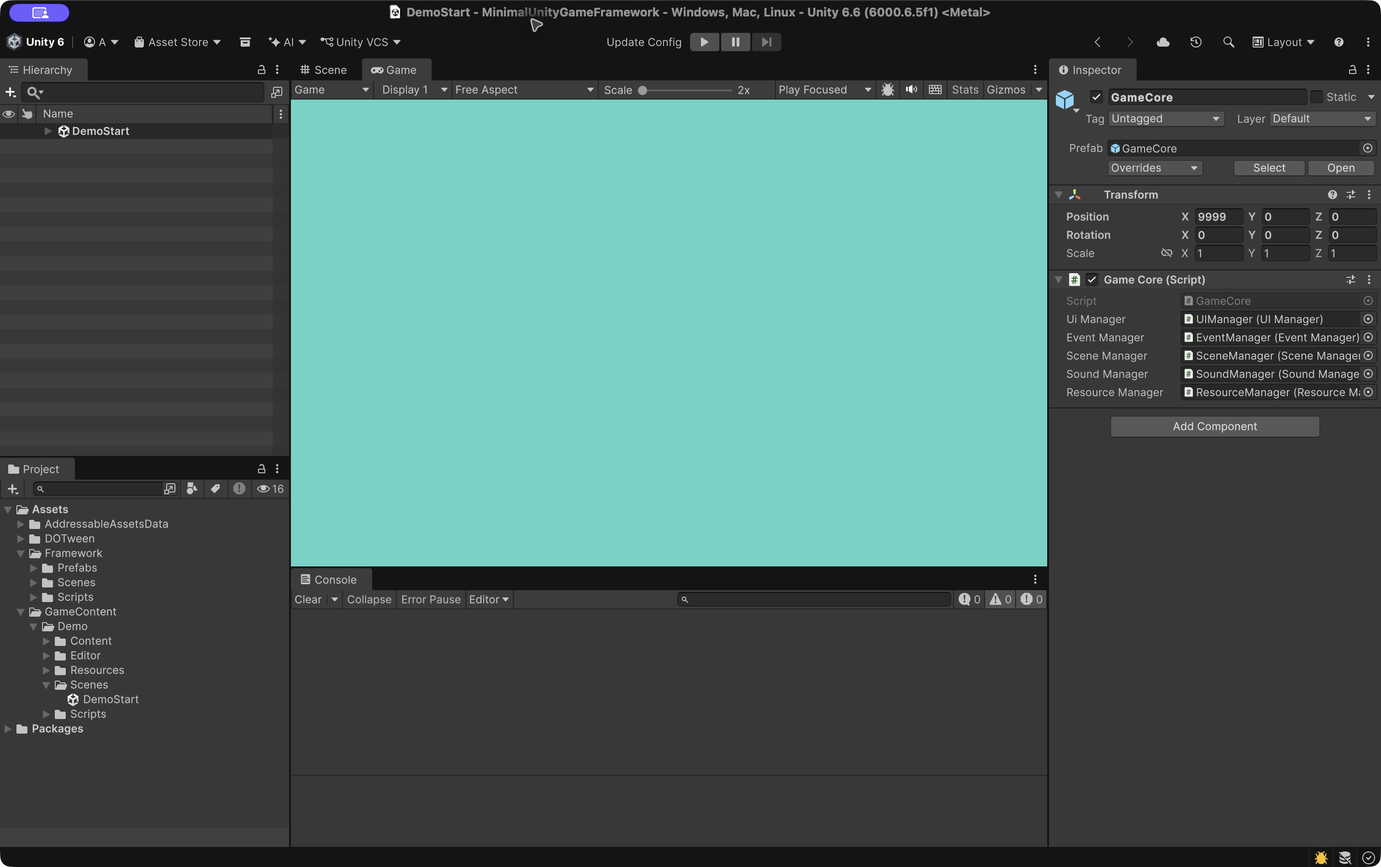
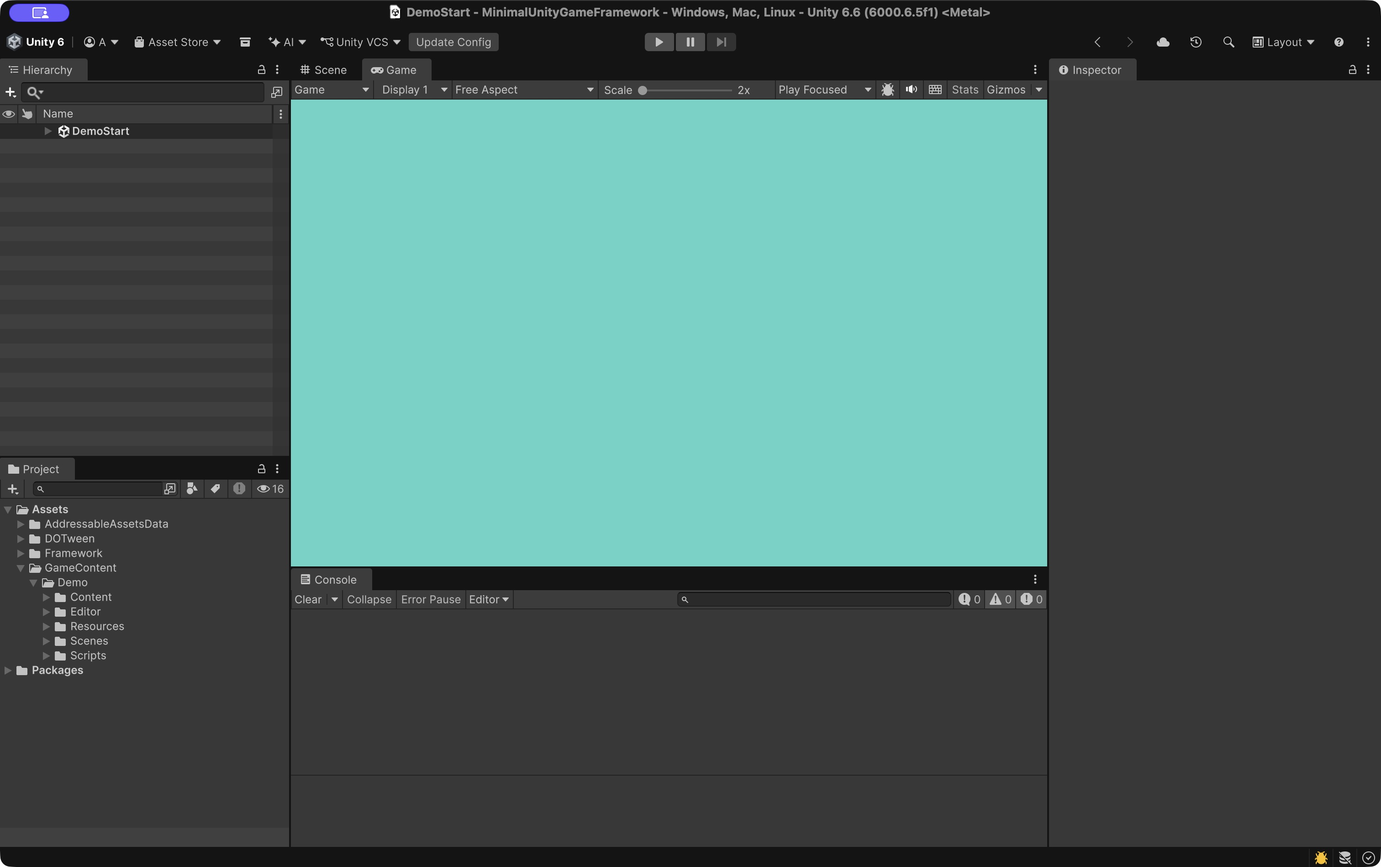
fix: keep config button in the left toolbar

diff --git a/Assets/Framework/Scripts/Config/Editor/ConfigToolbar.cs b/Assets/Framework/Scripts/Config/Editor/ConfigToolbar.cs
@@ -1,16 +1,18 @@
 using UnityEditor;
 using UnityEditor.Toolbars;
 using UnityEngine;
+using UnityEngine.UIElements;
 
 namespace FrameworkConfig.Editor
 {
     [InitializeOnLoad]
     internal static class ConfigToolbar
     {
-        private const string ElementId = "Framework/Update Config";
-        private static readonly string InitializationKey = "FrameworkConfig.ToolbarInitialized."
+        // A new ID lets existing layouts adopt the left dock without resetting other controls.
+        private const string ElementId = "Framework/Update configuration";
+        private static readonly string InitializationKey = "FrameworkConfig.ToolbarLeftInitialized."
             + ConfigFiles.Hash(Application.dataPath);
-        private static bool _initialized;
+        private static VisualElement _styledRoot;
         private static bool _canUpdate;
         private static double _nextInitializationAttempt;
 
@@ -21,13 +23,11 @@ namespace FrameworkConfig.Editor
                 return;
             }
 
-            _initialized = EditorPrefs.GetBool(InitializationKey, false);
             _canUpdate = ConfigUpdateCommand.CanUpdate;
             EditorApplication.update += Update;
         }
 
-        // Unity 6.6 accepts -1 before Play's index 0; this uses Unity's reserved index range.
-        [MainToolbarElement(ElementId, defaultDockPosition = MainToolbarDockPosition.Middle, defaultDockIndex = -1)]
+        [MainToolbarElement(ElementId, defaultDockPosition = MainToolbarDockPosition.Left, defaultDockIndex = 101)]
         private static MainToolbarElement CreateButton()
         {
             return new MainToolbarButton(
@@ -48,7 +48,8 @@ namespace FrameworkConfig.Editor
                 MainToolbar.Refresh(ElementId);
             }
 
-            if (_initialized || EditorApplication.isCompiling || EditorApplication.isUpdating
+            if ((_styledRoot != null && _styledRoot.panel != null)
+                || EditorApplication.isCompiling || EditorApplication.isUpdating
                 || EditorApplication.timeSinceStartup < _nextInitializationAttempt)
             {
                 return;
@@ -63,10 +64,26 @@ namespace FrameworkConfig.Editor
                     continue;
                 }
 
-                // Custom toolbar elements start hidden. Show once per project, then respect the user's layout.
-                overlay.displayed = true;
-                EditorPrefs.SetBool(InitializationKey, true);
-                _initialized = true;
+                // Keep the native button's hover, pressed and disabled states over a visible backplate.
+                var style = overlay.rootVisualElement.style;
+                style.alignSelf = Align.Center;
+                style.height = 20;
+                style.backgroundColor = EditorGUIUtility.isProSkin
+                    ? new Color(0.25f, 0.25f, 0.25f)
+                    : new Color(0.82f, 0.82f, 0.82f);
+                style.borderTopLeftRadius = 3;
+                style.borderTopRightRadius = 3;
+                style.borderBottomLeftRadius = 3;
+                style.borderBottomRightRadius = 3;
+
+                // Show once per project, then respect the user's visibility and layout choices.
+                if (!EditorPrefs.GetBool(InitializationKey, false))
+                {
+                    overlay.displayed = true;
+                    EditorPrefs.SetBool(InitializationKey, true);
+                }
+
+                _styledRoot = overlay.rootVisualElement;
                 break;
             }
         }

diff --git a/Assets/Framework/Scripts/Config/Editor/ConfigWindow.cs b/Assets/Framework/Scripts/Config/Editor/ConfigWindow.cs
@@ -45,7 +45,7 @@ namespace FrameworkConfig.Editor
 
             EditorGUILayout.Space(10);
             EditorGUILayout.LabelField("Connect Google Sheets", EditorStyles.boldLabel);
-            EditorGUILayout.LabelField("Set up once. Then use Update Config beside Play.", EditorStyles.wordWrappedLabel);
+            EditorGUILayout.LabelField("Set up once. Then use Update Config on the left side of the top toolbar.", EditorStyles.wordWrappedLabel);
             EditorGUILayout.Space(10);
 
             using (new EditorGUI.DisabledScope(!ConfigUpdateCommand.CanUpdate))

diff --git a/docs/build.zh-CN.md b/docs/build.zh-CN.md
@@ -9,7 +9,7 @@
 ## 01 构建 Demo
 
 1. 打开 **File → Build Profiles**，在 **Platforms** 中选择已安装的目标平台，需要切换时点击 **Switch Platform**。
-2. 退出 Play，等待编译完成。Demo 已经附带可用配置，不用先设置云端来源。如果修改过它连接的 Sheets 内容，先在 **Framework → Config** 中选择 Demo，再点击 Play 左侧的 **Update Config**。
+2. 退出 Play，等待编译完成。Demo 已经附带可用配置，不用先设置云端来源。如果修改过它连接的 Sheets 内容，先在 **Framework → Config** 中选择 Demo，再点击顶部工具栏左侧的 **Update Config**。
 3. 选择 **Demo → Build Player**，再选择输出位置。
 4. 打开构建好的游戏，检查菜单，再按这个顺序试一遍：Start → 用键盘通关 → Play again → Menu → Settings → Quit。
 
@@ -21,7 +21,7 @@
 
 1. 打开 **File → Build Profiles**，在 **Platforms** 中选择目标平台，需要切换时点击 **Switch Platform**。
 2. 点击左侧的 **Scene List**，添加 `MyGame/Scenes/Start.unity`，将它移到第一项并勾选。如果不需要 InitScene，就从列表中移除它，保留游戏使用的其他原生场景。**Open Scene List** 打开的也是这份共享列表。
-3. 如果 Google Sheets 内容或本地资产路径有变化，先在 **Framework → Config** 中选择自己的游戏，再点击 Play 左侧的 **Update Config**，等待编译完成。构建前，检查导入报告里是否有保留旧版表的警告，并确认这些表的状态。
+3. 如果 Google Sheets 内容或本地资产路径有变化，先在 **Framework → Config** 中选择自己的游戏，再点击顶部工具栏左侧的 **Update Config**，等待编译完成。构建前，检查导入报告里是否有保留旧版表的警告，并确认这些表的状态。
 4. 打开 **Window → Asset Management → Addressables → Groups**，选择 **Build → New Build → Default Build Script**，等待成功。
 5. 回到 **Platforms**，选中目标平台，点击 **Build** 并选择输出位置。
 6. 打开构建好的游戏，应该能看到自己的第一个界面。再试试 UI、输入、声音和场景切换。
@@ -77,6 +77,8 @@
 验证用的辅助内容只放在临时副本中，不会随框架一起交付。以上结果对应 v0.3.1 包含的代码，旧版本仍保留各自的教程。
 
 **v0.4.0 Editor 验证（2026-10-24）：** 31 项针对性检查通过，程序集重载后仍能显示更新结果。包含 Demo 的工程，以及删除 Demo、保留独立 MyGame 的副本，默认编译均通过。实际点击工具栏完成了首次连接（**3 updated**）、部分更新（**1 updated, 1 kept previous**）和 **Cancel** 检查。部分更新保留的 Resource 文件，以及取消后的全部生成文件，内容与修改时间均未变化。云端测试值已恢复。
+
+**v0.4.1 Editor 验证（2026-10-25）：** 按钮从已有的居中布局迁移到左侧工具栏，带有底板，Play 控件保持居中。macOS 上的 Unity 6000.6.5f1 已实测打开设置、脚本重载和播放时禁用；含 Demo、删除 Demo 后的默认编译均通过。更新流程和运行代码未变。
 
 [Editor 升级](upgrading.zh-CN.md) · Unity 参考：[Build Profiles](https://docs.unity3d.com/6000.6/Documentation/Manual/build-profiles.html)、[Scene List](https://docs.unity3d.com/6000.6/Documentation/Manual/build-profile-scene-list.html)。
 

diff --git a/docs/build.md b/docs/build.md
@@ -9,7 +9,7 @@
 ## 01 Build the Demo
 
 1. Open **File → Build Profiles**. Under **Platforms**, select an installed target and **Switch Platform** if needed.
-2. Exit Play and wait for compilation. The bundled Demo config is ready; no cloud setup is needed. If you changed its connected Sheets source, select Demo in **Framework → Config**, then click **Update Config** beside Play first.
+2. Exit Play and wait for compilation. The bundled Demo config is ready; no cloud setup is needed. If you changed its connected Sheets source, select Demo in **Framework → Config**, then click **Update Config** on the left side of Unity's top toolbar first.
 3. Choose **Demo → Build Player**, then select an output location.
 4. Open the app. Check the menu, then Start → keyboard win → Play again → Menu → Settings → Quit.
 
@@ -21,7 +21,7 @@ The helper builds Addressables and uses DemoStart without changing the saved sce
 
 1. Open **File → Build Profiles**. Select your target under **Platforms** and **Switch Platform** if needed.
 2. Select **Scene List** on the left. Add `MyGame/Scenes/Start.unity`, put it first and enable it. Remove InitScene if unneeded; keep other native scenes your game uses. **Open Scene List** opens this same shared list.
-3. If you changed Google Sheets or local asset paths, select your game in **Framework → Config**, then click **Update Config** beside Play and wait for compilation. Review any retained-table warnings before building.
+3. If you changed Google Sheets or local asset paths, select your game in **Framework → Config**, then click **Update Config** on the left side of Unity's top toolbar and wait for compilation. Review any retained-table warnings before building.
 4. Open **Window → Asset Management → Addressables → Groups**. Choose **Build → New Build → Default Build Script** and wait for success.
 5. Return to your target under **Platforms**, choose **Build** and an output location.
 6. Open the built app. Your own first screen should appear. Try its UI, input, sound and transitions.
@@ -77,6 +77,8 @@ Checked on **2026-10-24** with Unity **6000.6.5f1**, Addressables **2.11.2** and
 Validation helpers ran only in temporary copies and are not part of the framework. These results cover the code included in v0.3.1; older releases keep their own guides.
 
 **v0.4.0 Editor verification (2026-10-24):** 31 targeted checks and result recovery after a domain reload passed. Default compilation passed with Demo and in an independent MyGame copy after removing Demo. Real toolbar updates passed first connection (**3 updated**), partial update (**1 updated, 1 kept previous**) and **Cancel**. Retained Resource files, and all generated files after cancellation, kept the same contents and modification times. Cloud test values were restored.
+
+**v0.4.1 Editor verification (2026-10-25):** the button moves from the saved center layout to the left toolbar, with a visible background and centered Play controls. Opening Config, script reload and Play-mode disabling passed in Unity 6000.6.5f1 on macOS. Default compilation passed with and without Demo. The update pipeline and runtime code are unchanged.
 
 [Editor upgrades](upgrading.md) · Unity references: [Build Profiles](https://docs.unity3d.com/6000.6/Documentation/Manual/build-profiles.html) and [Scene List](https://docs.unity3d.com/6000.6/Documentation/Manual/build-profile-scene-list.html).
 

diff --git a/README.zh-CN.md b/README.zh-CN.md
@@ -2,11 +2,11 @@
 
 [English](README.md) · 简体中文
 
-**框架版本：** v0.4.0（配置工具栏） · **Unity：** 6.6（6000.6.5f1，非 LTS）
+**框架版本：** v0.4.1（配置工具栏） · **Unity：** 6.6（6000.6.5f1，非 LTS）
 
-[下载 v0.4.0（ZIP）](https://github.com/AngusK97/MinimalUnityGameFramework/archive/refs/tags/v0.4.0.zip) · [开始使用](docs/quick-start.zh-CN.md)
+[下载 v0.4.1（ZIP）](https://github.com/AngusK97/MinimalUnityGameFramework/archive/refs/tags/v0.4.1.zip) · [开始使用](docs/quick-start.zh-CN.md)
 
-这套教程适用于 **v0.4.0**。更新了什么，可以看[发布说明](https://github.com/AngusK97/MinimalUnityGameFramework/releases/tag/v0.4.0)；旧工程升级请看[迁移步骤](Build-in%20Managers%20Usage.zh-CN.md)。下载后，使用包内的文档即可。
+这套教程适用于 **v0.4.1**。更新了什么，可以看[发布说明](https://github.com/AngusK97/MinimalUnityGameFramework/releases/tag/v0.4.1)；旧工程升级请看[迁移步骤](Build-in%20Managers%20Usage.zh-CN.md)。下载后，使用包内的文档即可。
 
 Hello there ~ 我是 Angus，一名游戏开发者。这是我写的一个小型 Unity 框架，帮你处理 UI、事件、资源、场景和音频。可以先玩一下 Demo，再用同样的工具做自己的游戏。
 
@@ -28,7 +28,7 @@ Hello there ~ 我是 Angus，一名游戏开发者。这是我写的一个小型
 
 **GameCore** 提供五个公共模块，切换场景时也会保留。你自己的游戏和 Demo 都通过同一套 API 使用它们。
 
-配置从表格进入游戏：**Google Sheets → 点击 Play 左侧的 Update Config → 生成本地数据 → 游戏读取**。运行游戏时不需要连接 Google。
+配置从表格进入游戏：**Google Sheets → 点击顶部工具栏左侧的 Update Config → 生成本地数据 → 游戏读取**。运行游戏时不需要连接 Google。
 
 ```mermaid
 flowchart TB
@@ -104,7 +104,7 @@ Demo 自带运行所需的配置，不用设置 Google 账号或密钥。
 
 Addressables **2.11.2** · uGUI **2.6.0** · Built-in 渲染管线 · 旧 Input Manager。
 
-上面的下载链接和教程适用于 **v0.4.0**，可在工具栏直接更新 Google Sheets 配置。`0.x` 阶段的 API 仍可能调整，已有游戏可以继续使用原来的版本和文档。需要升级时，再查看 [Unity 升级](docs/upgrading.zh-CN.md)、[旧 API 迁移](Build-in%20Managers%20Usage.zh-CN.md)和[已验证范围](docs/build.zh-CN.md#04-验证范围)。
+上面的下载链接和教程适用于 **v0.4.1**，可在顶部工具栏左侧直接更新 Google Sheets 配置。`0.x` 阶段的 API 仍可能调整，已有游戏可以继续使用原来的版本和文档。需要升级时，再查看 [Unity 升级](docs/upgrading.zh-CN.md)、[旧 API 迁移](Build-in%20Managers%20Usage.zh-CN.md)和[已验证范围](docs/build.zh-CN.md#04-验证范围)。
 
 玩法参数可以继续放在 Inspector 或游戏自己的 ScriptableObject 中。文本／本地化和声音播放参数暂时没有专用表，AudioClip 资源已经可以在资源表中登记。存档、全局暂停、不同平台的输入，以及正式发布前的验证，按自己游戏的需要补充。
 

diff --git a/README.md b/README.md
@@ -2,11 +2,11 @@
 
 English · [简体中文](README.zh-CN.md)
 
-**Version:** v0.4.0 (Config toolbar) · **Unity:** 6.6 (6000.6.5f1, not LTS)
+**Version:** v0.4.1 (Config toolbar) · **Unity:** 6.6 (6000.6.5f1, not LTS)
 
-[Download v0.4.0 (ZIP)](https://github.com/AngusK97/MinimalUnityGameFramework/archive/refs/tags/v0.4.0.zip) · [Quick start](docs/quick-start.md)
+[Download v0.4.1 (ZIP)](https://github.com/AngusK97/MinimalUnityGameFramework/archive/refs/tags/v0.4.1.zip) · [Quick start](docs/quick-start.md)
 
-These guides match **v0.4.0**. See the [release notes](https://github.com/AngusK97/MinimalUnityGameFramework/releases/tag/v0.4.0) and [migration steps](Build-in%20Managers%20Usage.md). Keep downloaded code and guides together.
+These guides match **v0.4.1**. See the [release notes](https://github.com/AngusK97/MinimalUnityGameFramework/releases/tag/v0.4.1) and [migration steps](Build-in%20Managers%20Usage.md). Keep downloaded code and guides together.
 
 Hello there ~ I'm Angus, a game developer. This is a small Unity framework for UI, events, resources, scenes and audio. Try the Demo, then use the same tools to make your own game.
 
@@ -28,7 +28,7 @@ Hello there ~ I'm Angus, a game developer. This is a small Unity framework for U
 
 **GameCore** provides five services and stays alive across scene changes. Your game and the removable Demo use the same API.
 
-Configuration follows a separate path: **Google Sheets → Update Config beside Play → local data → your game**. The running game reads local data and needs no Google connection.
+Configuration follows a separate path: **Google Sheets → Update Config in the left toolbar → local data → your game**. The running game reads local data and needs no Google connection.
 
 ```mermaid
 flowchart TB
@@ -104,7 +104,7 @@ The Demo includes local generated data. No Google account or credentials are nee
 
 Addressables **2.11.2** · uGUI **2.6.0** · Built-in rendering · old Input Manager.
 
-The download and guides above use **v0.4.0**, which adds the Config toolbar to the Google Sheets workflow. `0.x` APIs may change. Existing games can keep their pinned version and its bundled guides. See [Editor upgrades](docs/upgrading.md), [older API migration](Build-in%20Managers%20Usage.md) and [what has been verified](docs/build.md#04-verification-scope).
+The download and guides above use **v0.4.1**, with the Google Sheets update button on the left side of Unity's top toolbar. `0.x` APIs may change. Existing games can keep their pinned version and its bundled guides. See [Editor upgrades](docs/upgrading.md), [older API migration](Build-in%20Managers%20Usage.md) and [what has been verified](docs/build.md#04-verification-scope).
 
 Gameplay parameters can stay in the Inspector or game-owned ScriptableObjects. Text/localization and sound-playback tables are deferred; AudioClip resource registration is included. Saves, full-game pause, platform input and release validation are left to your game's needs.
 

diff --git a/docs/quick-start.zh-CN.md b/docs/quick-start.zh-CN.md
@@ -6,13 +6,13 @@
 
 直接用下载的框架工程开始制作游戏。按下面的步骤操作，会保留工程原有的依赖和设置，把自己的内容放进 `GameContent/MyGame/`。
 
-本页对应 **v0.4.0**。使用 SO 配置的旧版本请看 [v0.2.0 教程](https://github.com/AngusK97/MinimalUnityGameFramework/blob/v0.2.0/docs/quick-start.zh-CN.md)。
+本页对应 **v0.4.1**。使用 SO 配置的旧版本请看 [v0.2.0 教程](https://github.com/AngusK97/MinimalUnityGameFramework/blob/v0.2.0/docs/quick-start.zh-CN.md)。
 
 <a id="运行-demo"></a>
 
 ## 01 运行 Demo
 
-1. [下载 v0.4.0（ZIP）](https://github.com/AngusK97/MinimalUnityGameFramework/archive/refs/tags/v0.4.0.zip)并解压。用 Unity Hub 打开包含 Assets、Packages、ProjectSettings 的目录，等待导入和编译完成。
+1. [下载 v0.4.1（ZIP）](https://github.com/AngusK97/MinimalUnityGameFramework/archive/refs/tags/v0.4.1.zip)并解压。用 Unity Hub 打开包含 Assets、Packages、ProjectSettings 的目录，等待导入和编译完成。
 2. 打开 **Window → Asset Management → Addressables → Groups**，把 **Play Mode Script** 设为 **Use Asset Database (fastest)**。
 3. 打开 `Assets/GameContent/Demo/Scenes/DemoStart.unity`，点击 Play，再点 **Start**，用 **WASD / 方向键**移动到 GOAL。
 4. 点击 **Play again** 重新开始，点击 **Menu** 返回菜单。用 **Settings / Escape** 打开音量设置，再用 **Done / Escape** 保存并关闭。
@@ -81,7 +81,7 @@ namespace MyGame
 | Menu | My first menu | Assets/GameContent/MyGame/Content/Prefabs/UI/MyMenuView.prefab |
 
 - **第一次连接：** 按[连接 Google Sheets](config-setup.zh-CN.md)操作。到第 6 步时，填入上面这三行 UI 配置。完成更新后，再回到这里继续。
-- **已经连接：** 打开直接放在配置来源文件夹中的工作簿，使用已有的 UI 工作表标签，没有就创建一个。保留原表头，新增或修改 Menu 行。在 Unity 点击 Play 左侧的 **Update Config**，等待更新结果和编译完成。如果之前选的是其他游戏，先在 **Framework → Config** 中切换到 **MyGame**。
+- **已经连接：** 打开直接放在配置来源文件夹中的工作簿，使用已有的 UI 工作表标签，没有就创建一个。保留原表头，新增或修改 Menu 行。在 Unity 点击顶部工具栏左侧的 **Update Config**，等待更新结果和编译完成。如果之前选的是其他游戏，先在 **Framework → Config** 中切换到 **MyGame**。
 
 **成功标志：** UI 表更新成功，`Assets/GameContent/MyGame/Scripts/Generated/UIName.g.cs` 中出现 `Menu = "Menu"`。
 

diff --git a/docs/quick-start.md b/docs/quick-start.md
@@ -6,13 +6,13 @@
 
 Use the downloaded framework project as the starting point for your game. The steps below keep its packages and settings, and add your content under `GameContent/MyGame/`.
 
-This page follows **v0.4.0**. For the fixed SO-based release, use the [v0.2.0 guide](https://github.com/AngusK97/MinimalUnityGameFramework/blob/v0.2.0/docs/quick-start.md).
+This page follows **v0.4.1**. For the fixed SO-based release, use the [v0.2.0 guide](https://github.com/AngusK97/MinimalUnityGameFramework/blob/v0.2.0/docs/quick-start.md).
 
 <a id="run-the-demo"></a>
 
 ## 01 Run the Demo
 
-1. [Download v0.4.0 (ZIP)](https://github.com/AngusK97/MinimalUnityGameFramework/archive/refs/tags/v0.4.0.zip) and extract it. In Unity Hub, open the folder containing Assets, Packages and ProjectSettings. Wait for import and compilation.
+1. [Download v0.4.1 (ZIP)](https://github.com/AngusK97/MinimalUnityGameFramework/archive/refs/tags/v0.4.1.zip) and extract it. In Unity Hub, open the folder containing Assets, Packages and ProjectSettings. Wait for import and compilation.
 2. Open **Window → Asset Management → Addressables → Groups**. Set **Play Mode Script → Use Asset Database (fastest)**.
 3. Open `Assets/GameContent/Demo/Scenes/DemoStart.unity` and press Play. Choose **Start** and move to GOAL with **WASD / arrows**.
 4. **Play again** restarts; **Menu** returns; **Settings / Escape** opens volume settings; **Done / Escape** saves and closes them.
@@ -81,7 +81,7 @@ Your first table is **UI**. Use these three rows, starting at A1:
 | Menu | My first menu | Assets/GameContent/MyGame/Content/Prefabs/UI/MyMenuView.prefab |
 
 - **First connection:** follow [Connect Google Sheets](config-setup.md). In its step 6, enter the UI rows above. Finish the update, then return here.
-- **Already connected:** open the UI tab in a workbook directly inside your source folder; create it if needed. Keep existing headers and add or update the Menu row. In Unity, click **Update Config** beside Play and wait for the result and compilation. If another game is selected, first choose **MyGame** in **Framework → Config**.
+- **Already connected:** open the UI tab in a workbook directly inside your source folder; create it if needed. Keep existing headers and add or update the Menu row. Click **Update Config** on the left side of Unity's top toolbar and wait for the result and compilation. If another game is selected, first choose **MyGame** in **Framework → Config**.
 
 **Success:** the UI table updated and `Assets/GameContent/MyGame/Scripts/Generated/UIName.g.cs` contains `Menu = "Menu"`.
 

diff --git a/Build-in Managers Usage.md b/Build-in Managers Usage.md
@@ -2,9 +2,9 @@
 
 [Overview](README.md) · [简体中文](Build-in%20Managers%20Usage.zh-CN.md)
 
-**Start with [Quick start](docs/quick-start.md)** to build your first window; use these pages for daily work. These guides match v0.4.0. The fixed [v0.2.0 guides](https://github.com/AngusK97/MinimalUnityGameFramework/blob/v0.2.0/docs/quick-start.md) retain the earlier Inspector/SO workflow.
+**Start with [Quick start](docs/quick-start.md)** to build your first window; use these pages for daily work. These guides match v0.4.1. The fixed [v0.2.0 guides](https://github.com/AngusK97/MinimalUnityGameFramework/blob/v0.2.0/docs/quick-start.md) retain the earlier Inspector/SO workflow.
 
-**From v0.3.x to v0.4.0:** no configuration data or runtime API migration is needed. Daily updates move to **Update Config** immediately left of **Play**; **Framework → Config** remains the place to change games and settings. The progress and result dialogs replace the old in-window status.
+**From v0.3.x to v0.4.1:** no configuration data or runtime API migration is needed. Daily updates move to **Update Config** on the left side of Unity's top toolbar; **Framework → Config** remains the place to change games and settings. The progress and result dialogs replace the old in-window status. The v0.4.0 button moves to the left toolbar once; other toolbar controls keep their layout.
 
 | Task | Guide |
 | --- | --- |
@@ -30,7 +30,7 @@ For the Editor/package upgrade, see [Moving to Unity 6.6](docs/upgrading.md). Ex
 3. Remove the old UI.asset, resource module SO assets and their obsolete generated definitions from the migration copy after preserving their values. Back up old generated C# and meta files outside Assets before importing: the new importer does not overwrite files it does not own. Remove obsolete SO editor tools if you copied framework files over an older installation. If missing generated types prevent compilation, temporarily comment their callers until the first update completes.
 4. In the Config dialog, click **Update Config**, then wait for the result and compilation. Restore and update callers as below. Commit the new source settings, generated CSV/manifest, C#, JSON and meta files together. Google Sheets is now the editing source.
 
-| Earlier call or data | v0.4.0 |
+| Earlier call or data | v0.4.1 |
 | --- | --- |
 | `GameUI.RegisterAll()` / `DemoUI.RegisterAll()` | `GameConfig.LoadAndRegister()` after Core is ready, once per Core lifetime |
 | `GameUI.Shop` / `DemoUI.Menu` | `UIName.Shop` / `UIName.Menu` |

diff --git a/Build-in Managers Usage.zh-CN.md b/Build-in Managers Usage.zh-CN.md
@@ -2,9 +2,9 @@
 
 [框架总览](README.zh-CN.md) · [English](Build-in%20Managers%20Usage.md)
 
-**第一次使用，先跟着[开始使用](docs/quick-start.zh-CN.md)做一个窗口。** 之后需要哪个功能，再查下面的表。这套教程适用于 v0.4.0；[v0.2.0 教程](https://github.com/AngusK97/MinimalUnityGameFramework/blob/v0.2.0/docs/quick-start.zh-CN.md)仍介绍旧的 Inspector/SO 配置方式。
+**第一次使用，先跟着[开始使用](docs/quick-start.zh-CN.md)做一个窗口。** 之后需要哪个功能，再查下面的表。这套教程适用于 v0.4.1；[v0.2.0 教程](https://github.com/AngusK97/MinimalUnityGameFramework/blob/v0.2.0/docs/quick-start.zh-CN.md)仍介绍旧的 Inspector/SO 配置方式。
 
-**从 v0.3.x 升级到 v0.4.0：** 不需要迁移配置数据或修改运行时 API。日常更新改用紧挨着 **Play** 左侧的 **Update Config**；换游戏和改设置仍在 **Framework → Config** 中完成。更新进度与结果改为独立窗口显示。
+**从 v0.3.x 升级到 v0.4.1：** 不需要迁移配置数据或修改运行时 API。日常更新改用 Unity 顶部工具栏左侧的 **Update Config**；换游戏和改设置仍在 **Framework → Config** 中完成。更新进度与结果改为独立窗口显示。v0.4.0 的按钮会自动移到左侧一次，其他工具栏控件的布局保留。
 
 | 想做什么 | 教程 |
 | --- | --- |
@@ -30,7 +30,7 @@ Unity 和依赖包怎么升级，见[升级到 Unity 6.6](docs/upgrading.zh-CN.m
 3. 确认旧配置已备份，再从工程副本中移除 UI.asset、资源模块 SO 和旧生成代码。旧生成的 C# 及其 meta 要备份到 Assets 外，新导表工具不会覆盖不归它管理的文件。如果是把新版框架复制进旧工程，还要移除旧 SO 编辑工具。删除旧类型后若出现编译错误，先暂时注释相关调用，完成首次更新后再恢复。
 4. 在 Config 设置窗口点击 **Update Config**，等待更新结果和编译完成，再按下表修改并恢复调用。配置来源设置、生成的 CSV／清单、C#、JSON 和 meta 文件一起提交。以后需要改表，只编辑 Google Sheets。
 
-| 旧调用或数据 | v0.4.0 |
+| 旧调用或数据 | v0.4.1 |
 | --- | --- |
 | `GameUI.RegisterAll()` / `DemoUI.RegisterAll()` | Core 就绪后调用 `GameConfig.LoadAndRegister()`，每个 Core 生命周期一次 |
 | `GameUI.Shop` / `DemoUI.Menu` | `UIName.Shop` / `UIName.Menu` |

diff --git a/docs/upgrading.zh-CN.md b/docs/upgrading.zh-CN.md
@@ -26,7 +26,7 @@
 1. 提交或备份能正常运行的工程，包括 Assets、Packages、ProjectSettings 和 meta 文件。保留一个仍能用原 Editor 打开的分支或副本，不要直接用新版打开唯一的工作副本。
 2. 通过 **Unity Hub → Unity 6.6（6000.6.5f1）** 打开迁移副本，等待包解析、资产导入和编译完成。迁移后的 manifest 和 lock 文件要一起保留。如果沿用了旧的 Library 缓存，这次成功导入还不能证明从头导入也能通过。
 3. 先核对上面的包变更，并查看 Console 中的第一条错误，再决定是否需要修改游戏代码。迁移这份工程时，不要顺带打开、升级或替换其他游戏仓库中的框架。
-4. 使用与你选择的框架版本对应的配置流程。从 v0.2.0 升级时，先完成[配置迁移](../Build-in%20Managers%20Usage.zh-CN.md#01-从-v020-迁移到-google-sheets)。v0.4.0 中，通过 **Framework → Config** 完成设置，日常更新点击 Play 左侧的 **Update Config**。生成的快照、清单、C#、JSON 和 meta 文件要一起维护。
+4. 使用与你选择的框架版本对应的配置流程。从 v0.2.0 升级时，先完成[配置迁移](../Build-in%20Managers%20Usage.zh-CN.md#01-从-v020-迁移到-google-sheets)。v0.4.1 中，通过 **Framework → Config** 完成设置，日常更新点击顶部工具栏左侧的 **Update Config**。生成的快照、清单、C#、JSON 和 meta 文件要一起维护。
 5. 打开 **File → Build Profiles**，在 **Platforms** 中选择目标平台，需要切换时点击 **Switch Platform**，并核对左侧共享的 **Scene List**。通过 **Build → New Build → Default Build Script** 重新构建 Addressables，再回到目标平台构建新的 Player。旧资源包或旧 Player 能运行，并不代表新的 Editor 和包版本组合也已通过验证。
 
 在 Unity 6 中，为第一个窗口创建脚本时，使用 **Create → Scripting → MonoBehaviour Script**。构建流程也从原来的 Build Settings 改为 Build Profiles；[开始使用](quick-start.zh-CN.md)和[构建](build.zh-CN.md)教程都已使用当前菜单名称。

diff --git a/docs/upgrading.md b/docs/upgrading.md
@@ -26,7 +26,7 @@ The Editor upgrade itself does not require URP or a new input system. Moving fro
 1. Commit or back up the working project, including Assets, Packages, ProjectSettings and their meta files. Keep a branch or copy that still opens in its original Editor. Do not open that only working copy with the newer Editor.
 2. Open the migration copy with **Unity Hub → Unity 6.6 (6000.6.5f1)**. Wait for package resolution, asset import and compilation. Keep the migrated manifest and lock file together; do not reuse an older Library cache as proof of a clean import.
 3. Check the package changes above and the first Console error before changing gameplay code. This migration does not open, upgrade or replace the framework inside any other game's repository.
-4. Keep the config workflow that belongs to your chosen framework version. When moving from v0.2.0, first follow [config migration](../Build-in%20Managers%20Usage.md#01-from-v020-to-google-sheets). In v0.4.0, use **Framework → Config** for setup and **Update Config** beside Play for daily updates. Keep generated snapshots, manifest, C#, JSON and meta files together.
+4. Keep the config workflow that belongs to your chosen framework version. When moving from v0.2.0, first follow [config migration](../Build-in%20Managers%20Usage.md#01-from-v020-to-google-sheets). In v0.4.1, use **Framework → Config** for setup and **Update Config** on the left side of Unity's top toolbar for daily updates. Keep generated snapshots, manifest, C#, JSON and meta files together.
 5. In **File → Build Profiles**, select the target under **Platforms** and use **Switch Platform** if needed. Check the shared **Scene List** on the left. Rebuild Addressables with **Build → New Build → Default Build Script**, then return to the target platform and build a new Player. Do not assume old bundles or an old Player certify the new Editor/package combination.
 
 Unity 6 uses **Create → Scripting → MonoBehaviour Script** for the first-window scripts. Build Profiles replaces the old Build Settings workflow; [Quick start](quick-start.md) and [Build](build.md) use the current labels.
